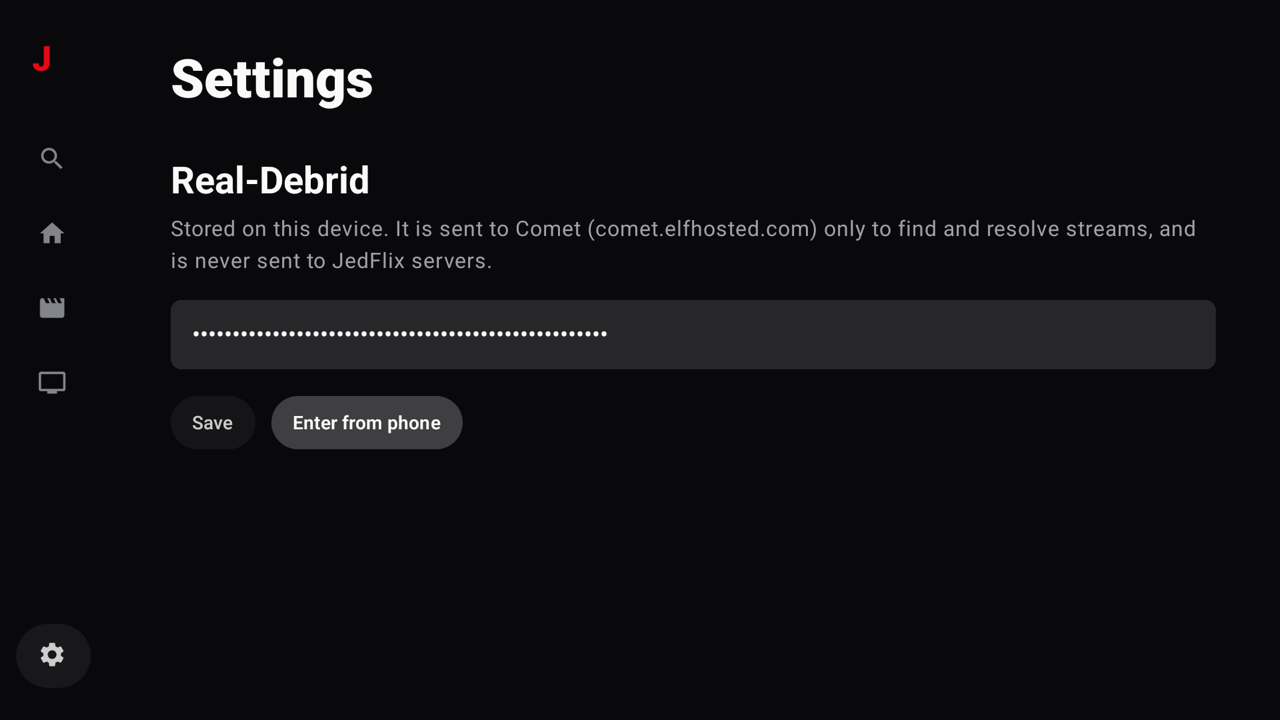
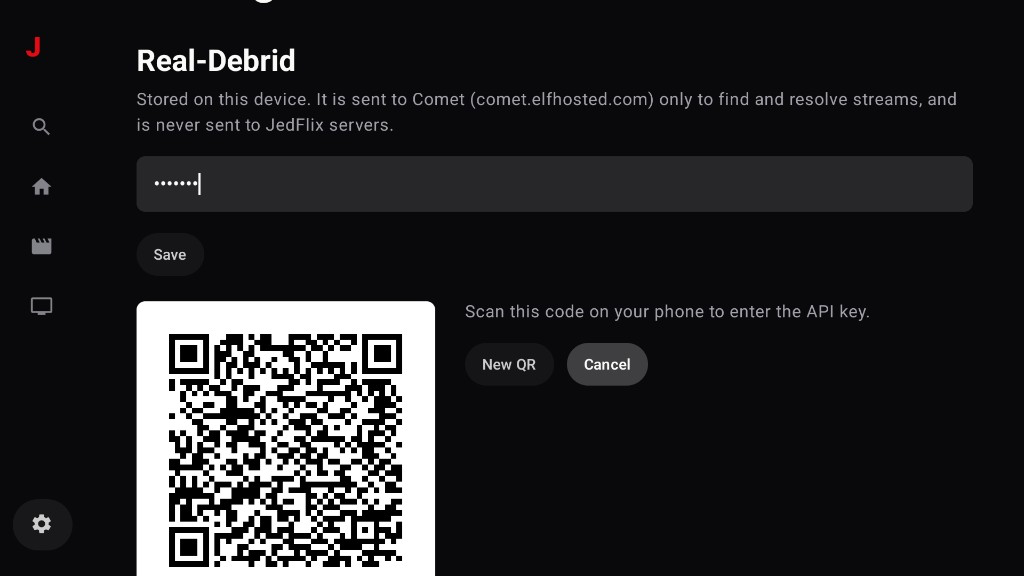
Swap README shots for QR pairing and the stream picker, and list upcoming work.

Changed region(s): [[0.125, 0.4062, 0.9688, 1.0], [0.125, 0.0625, 0.9688, 0.375], [0.4688, 0.5938, 0.6562, 0.6875]]

diff --git a/README.md b/README.md
@@ -1,34 +1,42 @@
 # JedFlix TV
 
-Android TV / Google TV client for [JedFlix](https://github.com/JedBorseth/jedflix). **Beta 0.1.0** (`com.jedflix.tv`).
+Android TV / Google TV client for [JedFlix](https://github.com/JedBorseth/jedflix). 
 
-Kotlin, Jetpack Compose for TV, Coil, Retrofit, Media3. Catalog from TMDB; playback through Comet + Real-Debrid.
+Kotlin, Jetpack Compose for TV, Coil, Retrofit, Media3. Catalog from TMDB; playback through Real-Debrid.
 
-<p>
-  <img src="docs/home.png" alt="Home catalog" width="32%" />
-  <img src="docs/detail.png" alt="Title detail" width="32%" />
-  <img src="docs/settings.png" alt="Real-Debrid settings" width="32%" />
-</p>
+![Home catalog](docs/home.png)![Real-Debrid QR pairing](docs/settings.png)![Stream picker](docs/streams.png)
 
 **[Download APK](https://github.com/JedBorseth/jedflix-tv/releases/tag/v0.1.0)** · Leanback, API 24+ · sideload only (not on Play Store)
 
-| | |
-|---|---|
-| Browse | Home / Movies / Shows, immersive billboard, poster shelves |
-| Search | Debounced as you type |
-| Title | Detail, cast, similar, TV episodes |
-| Play | Title → stream picker → Comet cached RD links → Media3 |
-| Settings | Real-Debrid key on-device (type or QR from phone) |
+
+|          |                                                            |
+| -------- | ---------------------------------------------------------- |
+| Browse   | Home / Movies / Shows, immersive billboard, poster shelves |
+| Search   | Debounced as you type                                      |
+| Title    | Detail, cast, similar, TV episodes                         |
+| Play     | Title → stream picker → Comet cached RD links → Media3     |
+| Settings | Real-Debrid key on-device (type or QR from phone)          |
+
 
 The RD key stays in DataStore on the TV. It is sent only to [Comet](https://comet.elfhosted.com) to find/unrestrict streams — never to Convex or JedFlix web.
 
-Not in this beta: accounts, My List, watch history, non-cached torrents.
+## Todo
+
+- Subtitles
+- More settings
+- Alternate debrid providers (resell TorBox in-app)
+- Account switching
+- Watch history
+- Actor pages
+- More
 
 ## Install
 
 1. Get a [Real-Debrid](https://real-debrid.com) premium key.
 2. Install the APK (`adb install jedflix-tv-0.1.0-beta.apk`, or copy onto the TV).
 3. Settings → paste the key, or **Enter from phone** and scan the QR.
+
+
 
 ## Build
 
